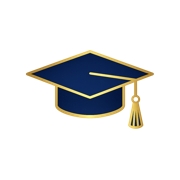
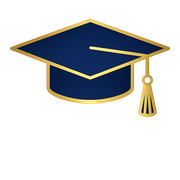
Slice 16 (L4): wire landing CTAs + plumb ?plan= through signup
Closes Phase L4. Three groups of changes:

1. Landing CTAs leave the `#` / `#plans` placeholders behind:
   - Hero "התחילו לתרגל" → /signup
   - Header "כניסה לאזור אישי" → /login  (proxy already bounces
     authed visitors from /login → /dashboard, so this single
     href works for both new + returning visitors)
   - Plans 3-month card → /signup?plan=plan_3m
   - Plans 6-month (featured) card → /signup?plan=plan_6m
   - AI "בקרוב" stays <button disabled>

2. signUpAction grows an optional `intendedPlan` context arg
   (Decision 2). The signup form reads `?plan=` from the URL via
   `useSearchParams`, validates with isValidPlanId, and forwards
   it. signUpAction stashes it on auth.user_metadata as
   `intended_plan` alongside the existing demographic fields.

   verifyOtpAction reads `intended_plan` back from user_metadata
   on the no-subscription branch and redirects the user straight
   to /checkout?plan=<id> instead of the generic /pricing
   fallback. Users coming in via the hero CTA (no plan picked
   yet) still see /pricing as before — they pick a plan there
   and continue to /checkout.

   userMetadataSchema gains the optional `intended_plan` field
   so the existing zod re-validation step in verifyOtpAction
   doesn't reject the new key. Both signup-form and signUpAction
   guard the value with `isValidPlanId` (defense in depth: a
   client-tampered ?plan= can't reach user_metadata as something
   unexpected).
[…]

Changed region(s): [[0.0556, 0.0833, 0.9444, 0.7222]]

diff --git a/app/(auth)/_actions.ts b/app/(auth)/_actions.ts
@@ -6,6 +6,7 @@ import { cookies } from "next/headers";
 import { redirect } from "next/navigation";
 import { z } from "zod";
 
+import { isValidPlanId, type PlanId } from "@/lib/billing/plans";
 import { createClient } from "@/lib/supabase/server";
 import type { AcademicInstitution } from "@/lib/profile/institutions";
 import type { LegalSpecialization } from "@/lib/profile/specializations";
@@ -141,6 +142,13 @@ const userMetadataSchema = z.object({
   legal_specialization: legalSpecializationSchema,
   // ISO timestamp captured server-side at signUpAction time.
   terms_accepted_at: z.string().min(1),
+  // Slice 16 / Phase L4 — plan the user picked on the landing page
+  // pricing card before they hit "התחילו עם …". signUpAction stashes
+  // it here; verifyOtpAction reads it back and routes the user to
+  // /checkout?plan=… instead of the generic /pricing fallback.
+  // Optional because users who land on /signup from the hero CTA
+  // (which has no plan picked yet) submit without it.
+  intended_plan: z.enum(["plan_3m", "plan_6m"]).optional(),
 });
 
 /**
@@ -222,7 +230,16 @@ async function createProfile(input: {
  *
  * Redirects to /verify-email?email=... on success.
  */
-export async function signUpAction(input: SignupInput): Promise<ActionResult> {
+export async function signUpAction(
+  input: SignupInput,
+  // Slice 16 / Phase L4 — optional context for the landing pricing
+  // CTAs. `intendedPlan` is the plan_id the user picked before
+  // signup; we stash it in auth.user_metadata so verifyOtpAction
+  // can redirect them to /checkout?plan=… instead of /pricing once
+  // the OTP clears. Not part of `SignupInput` because the user
+  // never types it — it rides along from the URL query.
+  context?: { intendedPlan?: PlanId | null }
+): Promise<ActionResult> {
   const parsed = signupSchema.safeParse(input);
   if (!parsed.success) {
     return {
@@ -231,6 +248,12 @@ export async function signUpAction(input: SignupInput): Promise<ActionResult> {
     };
   }
   const data = parsed.data;
+  // Belt-and-suspenders: re-validate `intendedPlan` here even though
+  // the form already filters on `isValidPlanId`. A client-tampered
+  // value can't slip through to user_metadata.
+  const intendedPlan = isValidPlanId(context?.intendedPlan)
+    ? context!.intendedPlan
+    : undefined;
 
   const supabase = await createClient();
   const { error } = await supabase.auth.signUp({
@@ -256,6 +279,9 @@ export async function signUpAction(input: SignupInput): Promise<ActionResult> {
         // Captured server-side at signup time, persisted to
         // profiles.terms_accepted_at on OTP verification.
         terms_accepted_at: new Date().toISOString(),
+        // Conditionally include — Supabase strips null-valued keys
+        // but spreading nothing keeps the on-disk shape minimal.
+        ...(intendedPlan ? { intended_plan: intendedPlan } : {}),
       },
     },
   });
@@ -381,6 +407,13 @@ export async function verifyOtpAction(input: {
   // (action → /dashboard → layout-redirect → /pricing) and rendering
   // /pricing empty on first paint. Returning the URL + window.location
   // navigation forces a full page load, eliminating the chain.
+  //
+  // Slice 16 / Phase L4 — if the user picked a plan on the landing
+  // pricing card before signup, signUpAction stashed it as
+  // `intended_plan` in auth.user_metadata; we redirect them straight
+  // to /checkout?plan=<id> on the no-sub branch instead of the
+  // generic /pricing fallback. /pricing remains the catch-all for
+  // users who came in via the hero CTA without a pre-selected plan.
   const { data: subscription } = await supabase
     .from("subscriptions")
     .select("id")
@@ -390,7 +423,14 @@ export async function verifyOtpAction(input: {
     .gt("ends_at", new Date().toISOString())
     .maybeSingle();
 
-  return { ok: true, url: subscription ? "/dashboard" : "/pricing" };
+  const intendedPlan = metaParsed.data.intended_plan;
+  const url = subscription
+    ? "/dashboard"
+    : intendedPlan
+      ? `/checkout?plan=${intendedPlan}`
+      : "/pricing";
+
+  return { ok: true, url };
 }
 
 /**

diff --git a/app/(auth)/signup/_components/signup-form.tsx b/app/(auth)/signup/_components/signup-form.tsx
@@ -3,7 +3,8 @@
 import { zodResolver } from "@hookform/resolvers/zod";
 import { Check } from "lucide-react";
 import Link from "next/link";
-import { useEffect, useState } from "react";
+import { useSearchParams } from "next/navigation";
+import { useEffect, useMemo, useState } from "react";
 import {
   type DefaultValues,
   type UseFormReturn,
@@ -13,6 +14,7 @@ import {
 import { toast } from "sonner";
 
 import { signUpAction } from "@/app/(auth)/_actions";
+import { isValidPlanId } from "@/lib/billing/plans";
 import { Button } from "@/components/ui/button";
 import {
   Card,
@@ -179,6 +181,18 @@ export default function SignupForm() {
   const [submitting, setSubmitting] = useState(false);
   const [oauthSubmitting, setOauthSubmitting] = useState(false);
 
+  // Slice 16 / Phase L4 — landing pricing CTA passes `?plan=plan_3m`
+  // or `?plan=plan_6m`. We forward it to signUpAction as a separate
+  // context arg so verifyOtpAction can route the user to
+  // /checkout?plan=… instead of the generic /pricing fallback once
+  // the OTP clears. Tampered / unknown values are filtered out by
+  // `isValidPlanId`; missing → undefined → no special routing.
+  const searchParams = useSearchParams();
+  const intendedPlan = useMemo(() => {
+    const raw = searchParams.get("plan");
+    return isValidPlanId(raw) ? raw : undefined;
+  }, [searchParams]);
+
   // Local mirrors for the month/year selects on step 3. Combined into a
   // YYYY-MM-01 string and pushed into the form when both are set.
   const [examMonth, setExamMonth] = useState<string>("");
@@ -289,7 +303,7 @@ export default function SignupForm() {
   async function onSubmit(values: SignupInput) {
     setSubmitting(true);
     try {
-      const result = await signUpAction(values);
+      const result = await signUpAction(values, { intendedPlan });
       // Server Action either redirects (success — throws NEXT_REDIRECT) or
       // returns { ok: false, error }. The redirect path doesn't reach here.
       if (result?.ok === false) {

diff --git a/app/(marketing)/_components/landing-plans.tsx b/app/(marketing)/_components/landing-plans.tsx
@@ -170,8 +170,16 @@ function PlanCard({ plan }: { plan: Plan }) {
       </ul>
 
       <Link
-        // L5: rewrite to `/signup?plan=${plan.id}`.
-        href="#"
+        // L4: pricing CTA goes to /signup with the chosen plan in the
+        // query so signUpAction stashes it in auth.user_metadata. After
+        // OTP verify, verifyOtpAction redirects the user straight to
+        // /checkout?plan=<id> instead of /pricing. (If they happen to
+        // be authenticated when the proxy sees this request — e.g.
+        // returning visitor — the proxy bounces them to /dashboard
+        // before the landing's own auth redirect ever runs, but for
+        // belt-and-suspenders the /signup page itself also redirects
+        // authed users to /checkout?plan=… via the same query.)
+        href={`/signup?plan=${plan.id}`}
         className={cn(
           "inline-flex w-full items-center justify-center gap-2 rounded-full px-6 py-3 text-sm font-semibold transition-[filter,transform,background] duration-200",
           featured

diff --git a/app/(marketing)/_components/landing-header.tsx b/app/(marketing)/_components/landing-header.tsx
@@ -77,8 +77,11 @@ export function LandingHeader() {
       </Link>
 
       <Link
-        // L5: rewrite to "/login" once auth routing settles.
-        href="#"
+        // L4: header CTA goes to /login. The proxy at the repo root
+        // bounces already-authed users away from /login → /dashboard,
+        // so this single href works for both anonymous + returning
+        // sessions without a separate "logout / go to app" pivot.
+        href="/login"
         className={cn(
           buttonVariants({ variant: "gold", size: "lg" }),
           "justify-self-end px-[22px] py-[11px] text-sm font-semibold"

diff --git a/app/(marketing)/_components/landing-hero.tsx b/app/(marketing)/_components/landing-hero.tsx
@@ -92,8 +92,10 @@ export function LandingHero() {
 
           <div className="mb-14 flex flex-wrap items-center gap-3.5">
             <Link
-              // L5: → /signup
-              href="#plans"
+              // L4: hero CTA goes to /signup. The user picks a plan there
+              // (signup form reads ?plan=… if present) or on /pricing
+              // after they verify the OTP and land with no subscription.
+              href="/signup"
               className={cn(
                 buttonVariants({ variant: "gold", size: "lg" }),
                 "px-7 py-3 text-base font-semibold"
